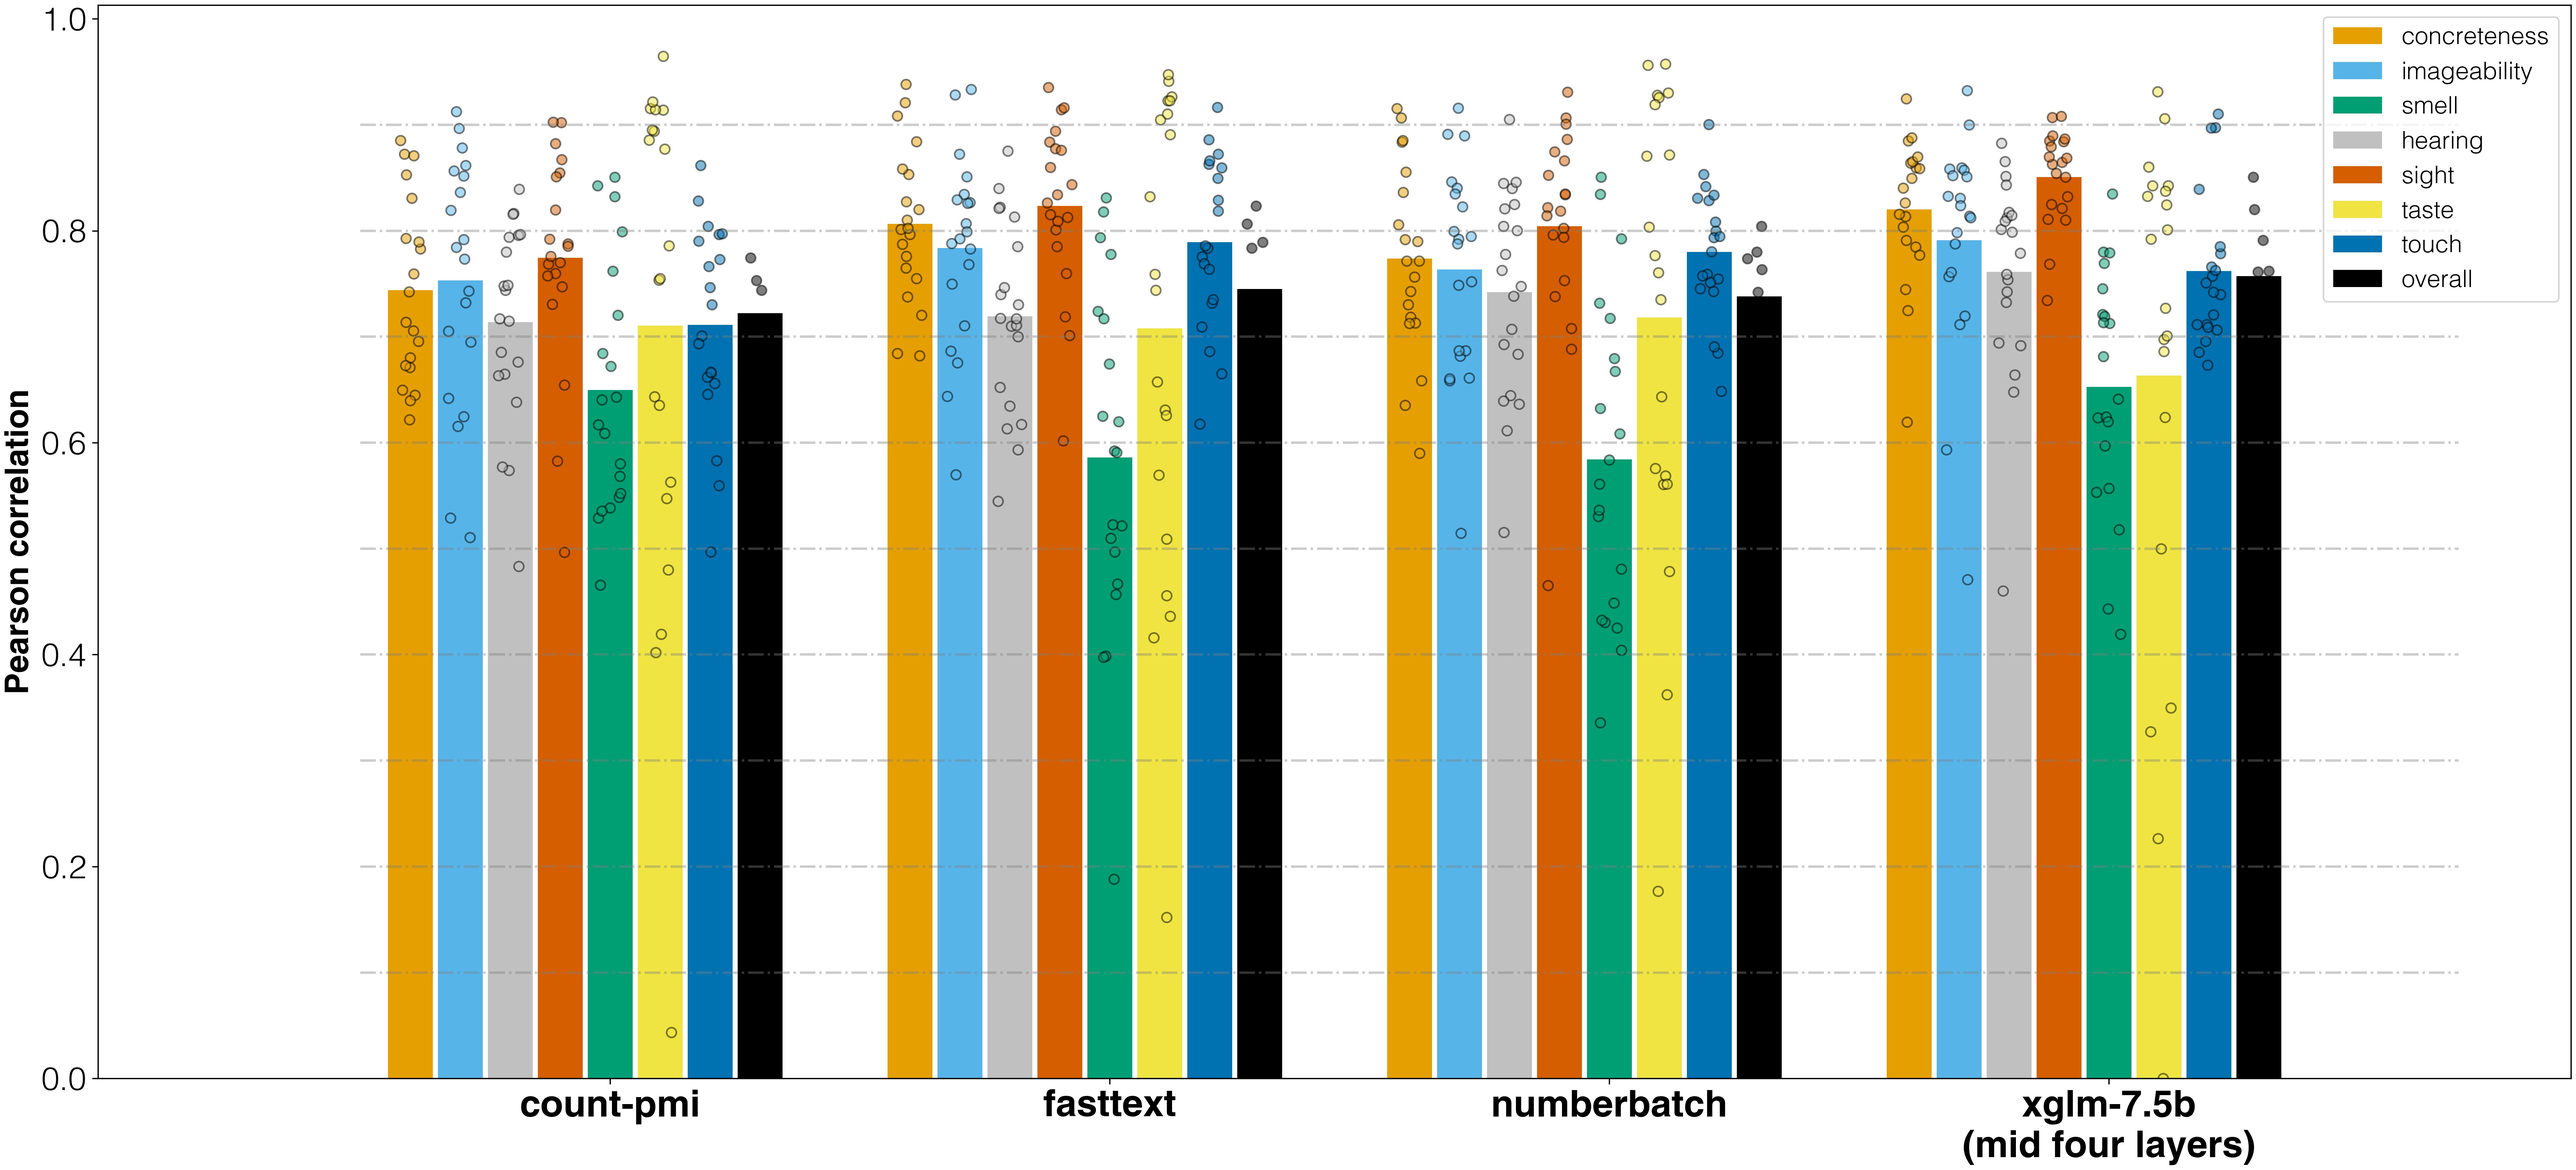
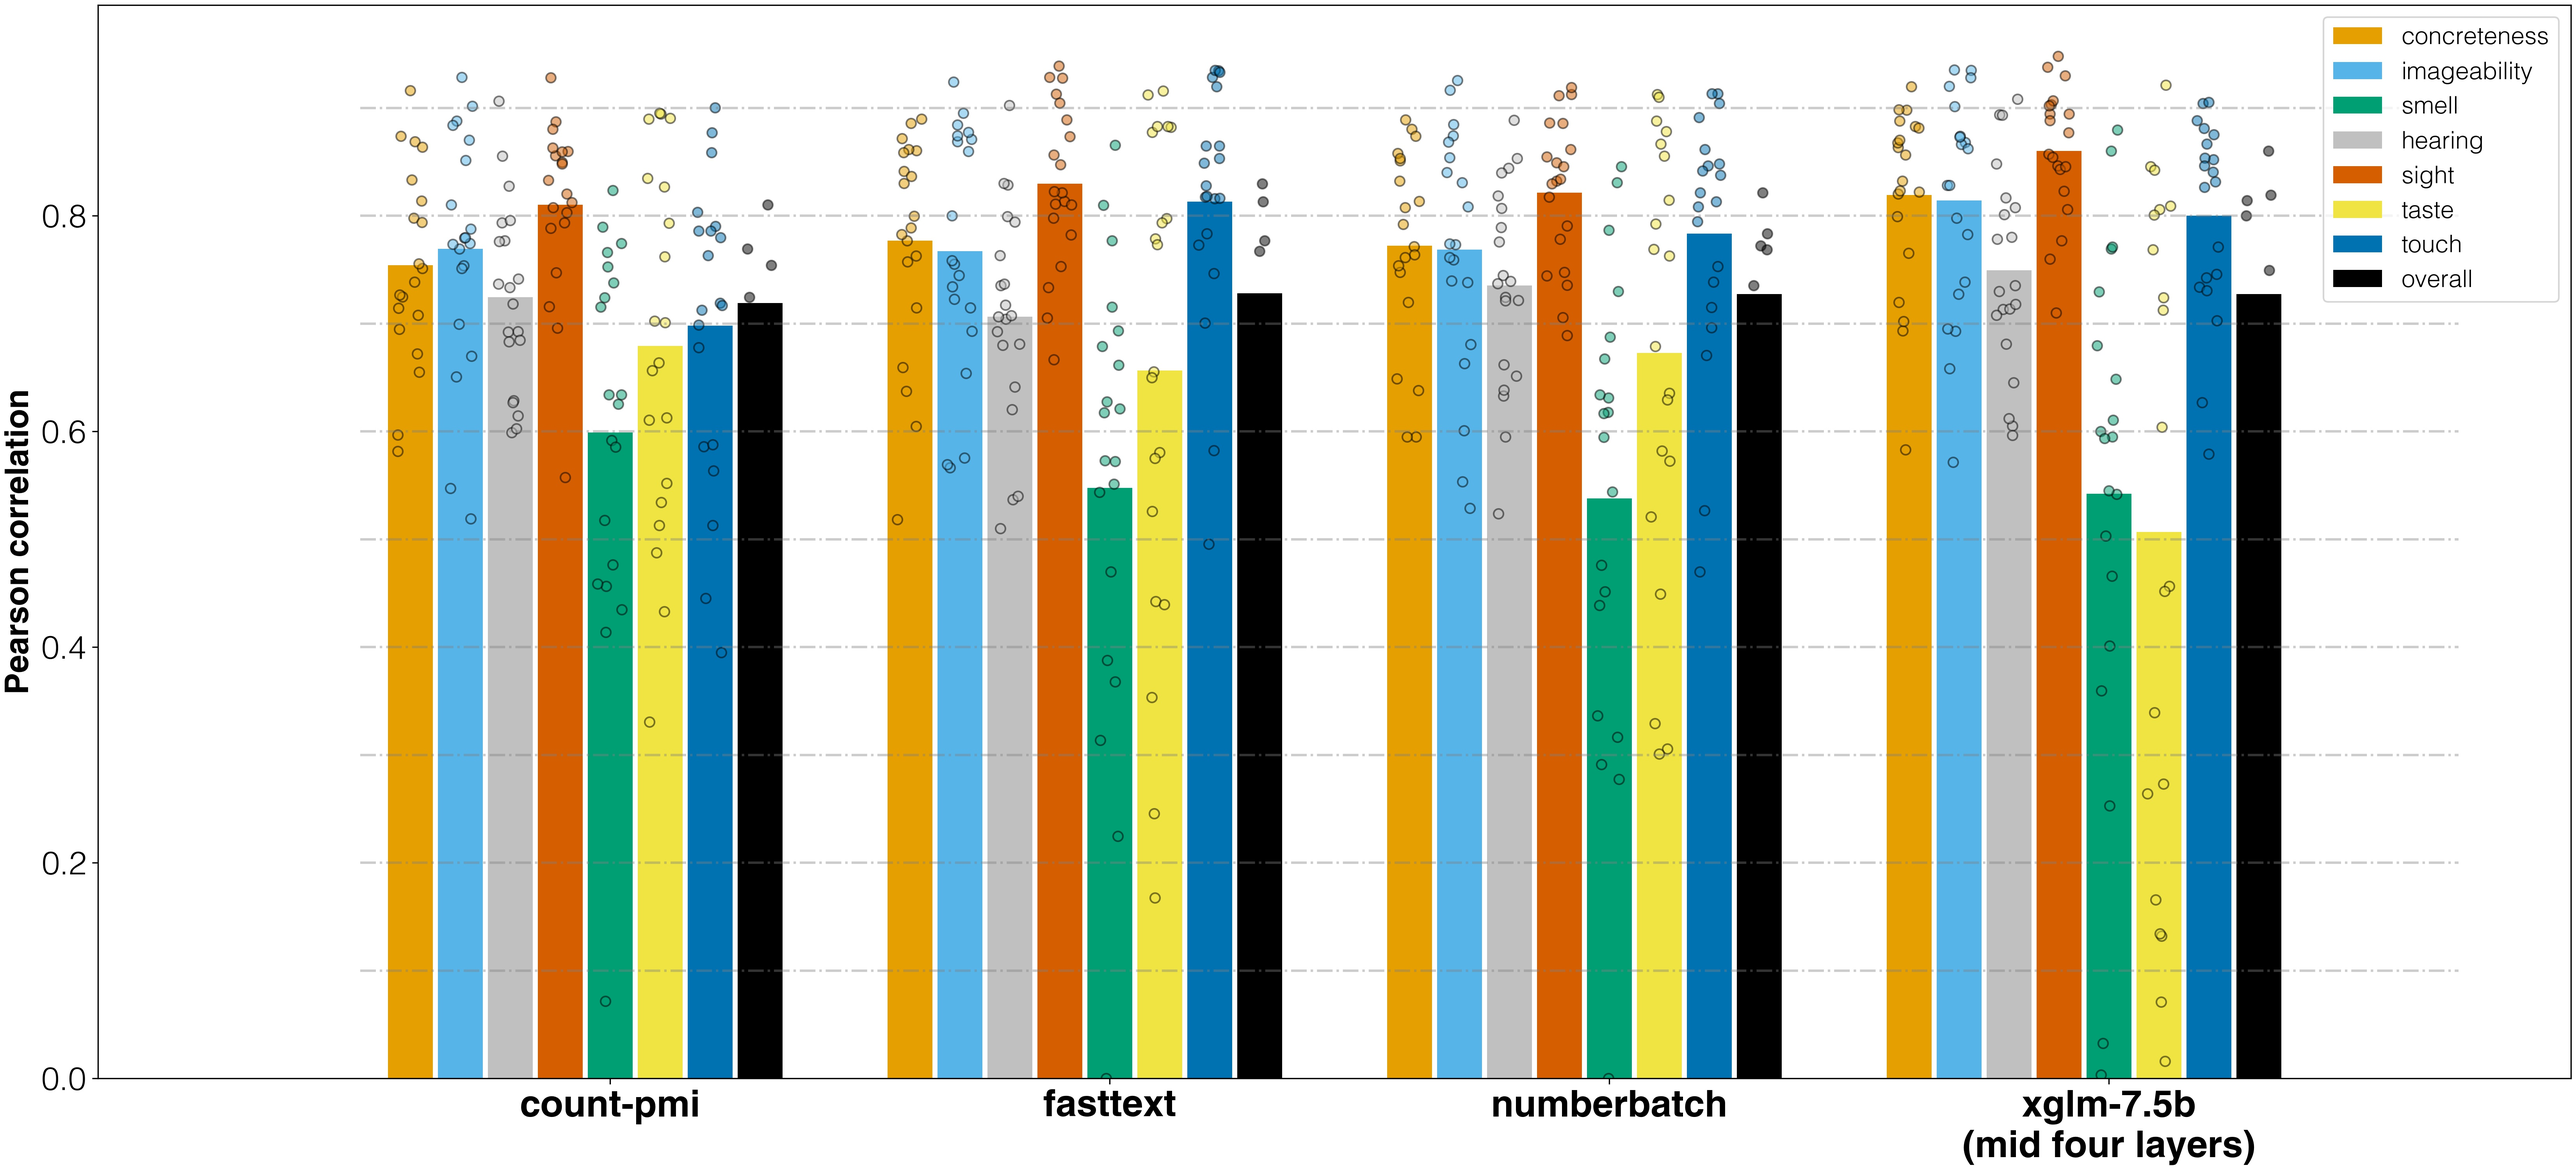
e

diff --git a/07_rsa_and_evaluation.py b/07_rsa_and_evaluation.py
@@ -488,8 +488,8 @@ with open('{}.txt'.format(out_file), 'w') as o:
                         edgecolors='black',
                         zorder=2.5,)
         '''
-ax.hlines([0.5], xmin=0., color='black', xmax=len(models_sorted)-.3, linestyles='dashdot', zorder=2.5)
-ax.hlines([0.2, 0.3, 0.4, 0.5, 0.6, 0.7, 0.8, 0.9, 1.], xmin=0., color='grey', alpha=0.4, xmax=len(models_sorted)-.3, linestyles='dashdot', zorder=2.5)
+ax.hlines([0.5], xmin=0., color='black', xmax=len(models_sorted)-.1, linestyles='dashdot', zorder=2.5)
+ax.hlines([0.2, 0.3, 0.4, 0.5, 0.6, 0.7, 0.8, 0.9, 1.], xmin=0., color='grey', alpha=0.4, xmax=len(models_sorted)-.1, linestyles='dashdot', zorder=2.5)
 ### dummy to do the legend
 
 for col_name, pal in palette.items():
@@ -498,7 +498,7 @@ for col_name, pal in palette.items():
 ax.set_xticks([i+(len(corrections)/20) for i in range(len(sims.keys()))])
 ax.set_xticklabels(
                    [m.replace('_mid_four', '') for m in models_sorted], 
-                   fontsize=35, 
+                   fontsize=40, 
                    ha='center', 
                    #rotation=45, 
                    fontweight='bold'
